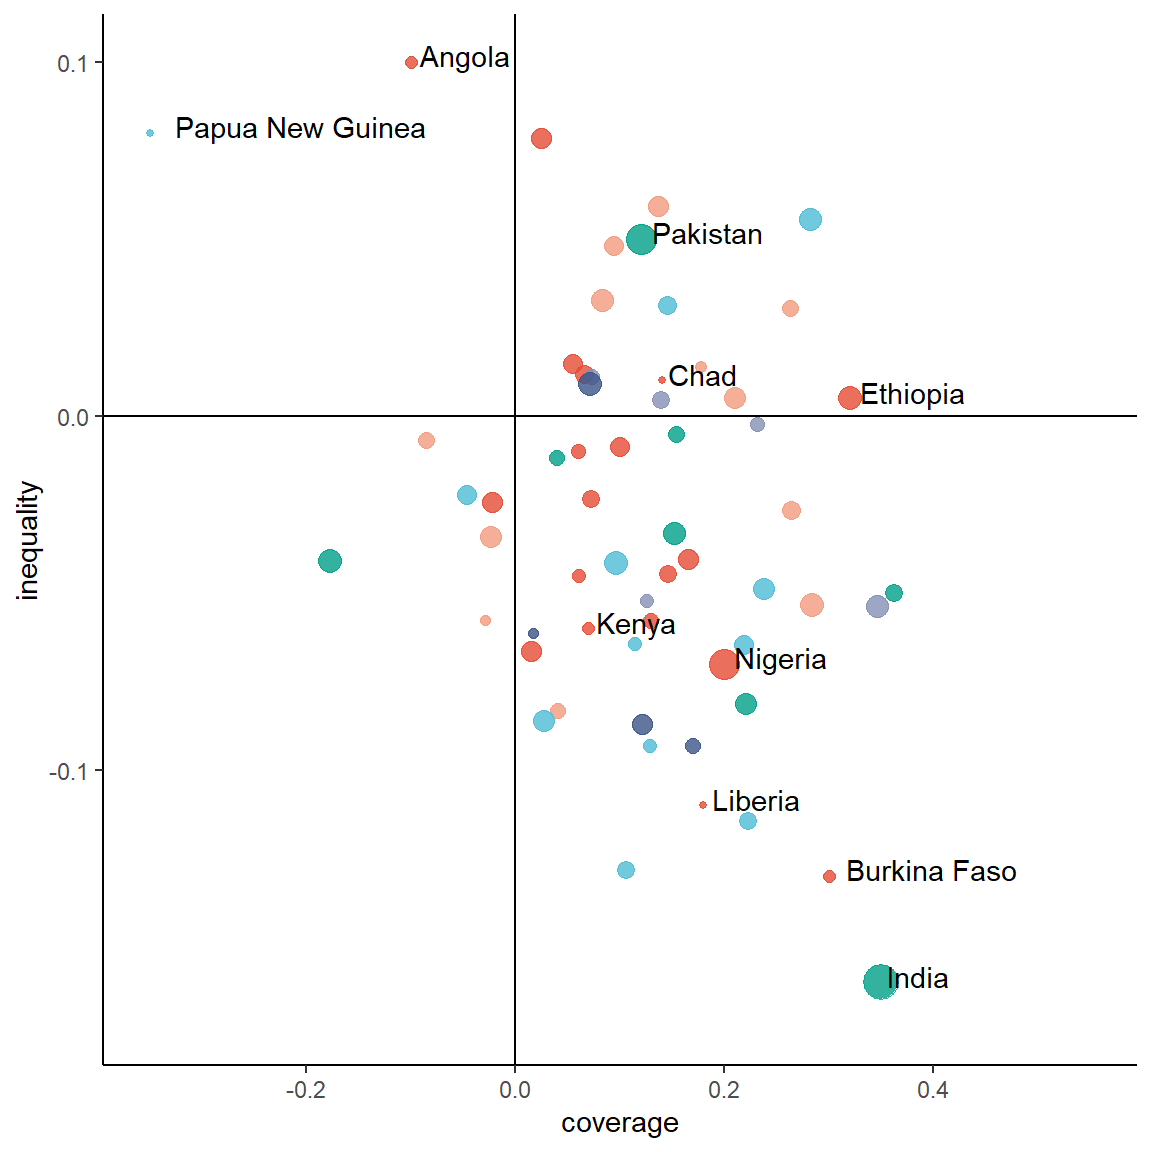
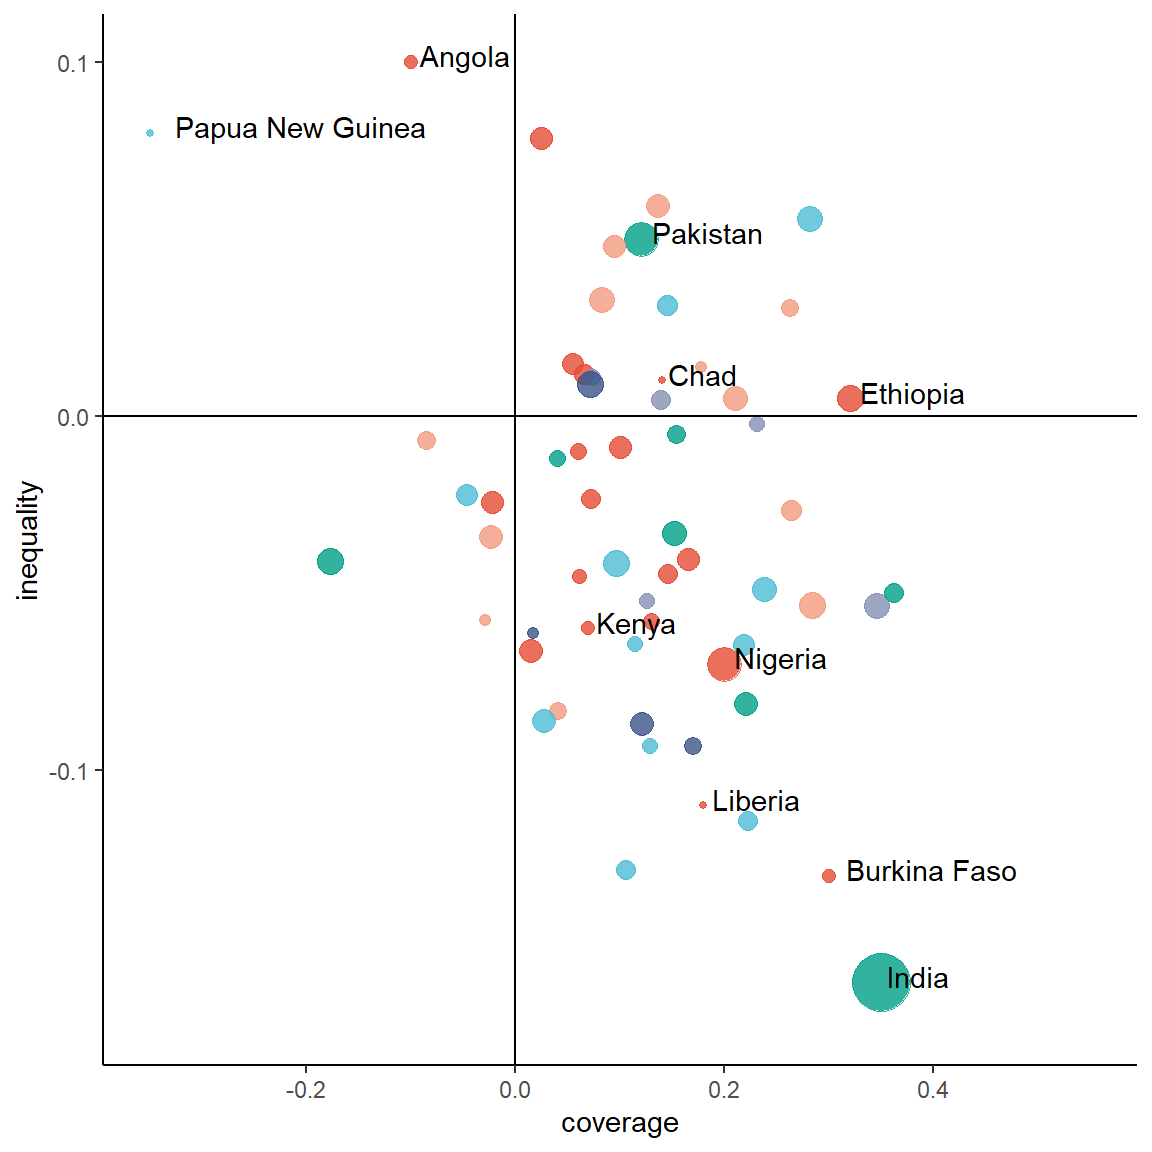
minor update

diff --git a/docs/viz-practice.html b/docs/viz-practice.html
@@ -313,7 +313,7 @@ gtag('config', 'G-RVRBE7Y1R2', { 'anonymize_ip': true});
 </div>
 <p>Các điểm trong biểu đồ gốc có màu sắc và kích thước to nhỏ khác nhau, vậy trong data frame cần có thêm 1 cột màu sắc và 1 cột kích thước.</p>
 <div class="cell">
-<div class="sourceCode cell-code" id="cb7"><pre class="sourceCode r code-with-copy"><code class="sourceCode r"><span id="cb7-1"><a href="#cb7-1" aria-hidden="true" tabindex="-1"></a>df_plot<span class="sc">$</span>size <span class="ot">&lt;-</span> <span class="fu">c</span>(<span class="fl">1.1</span>, <span class="dv">1</span>, <span class="dv">3</span>, <span class="dv">1</span>, <span class="dv">2</span>, <span class="fl">1.1</span>, <span class="dv">3</span>, <span class="dv">1</span>, <span class="fl">1.1</span>, <span class="dv">4</span>)</span>
+<div class="sourceCode cell-code" id="cb7"><pre class="sourceCode r code-with-copy"><code class="sourceCode r"><span id="cb7-1"><a href="#cb7-1" aria-hidden="true" tabindex="-1"></a>df_plot<span class="sc">$</span>size <span class="ot">&lt;-</span> <span class="fu">c</span>(<span class="fl">1.1</span>, <span class="dv">1</span>, <span class="dv">3</span>, <span class="dv">1</span>, <span class="dv">2</span>, <span class="fl">1.1</span>, <span class="dv">3</span>, <span class="dv">1</span>, <span class="fl">1.1</span>, <span class="dv">8</span>)</span>
 <span id="cb7-2"><a href="#cb7-2" aria-hidden="true" tabindex="-1"></a>df_plot<span class="sc">$</span>color <span class="ot">&lt;-</span> <span class="fu">c</span>(<span class="dv">1</span>, <span class="dv">2</span>, <span class="dv">3</span>, <span class="dv">1</span>, <span class="dv">1</span>, <span class="dv">1</span>, <span class="dv">1</span>, <span class="dv">1</span>, <span class="dv">1</span>, <span class="dv">3</span>)</span>
 <span id="cb7-3"><a href="#cb7-3" aria-hidden="true" tabindex="-1"></a>df_plot</span></code><button title="Copy to Clipboard" class="code-copy-button"><i class="bi"></i></button></pre></div>
 <div class="cell-output cell-output-stdout">
@@ -327,7 +327,7 @@ gtag('config', 'G-RVRBE7Y1R2', { 'anonymize_ip': true});
 7           Nigeria     -0.070     0.20  3.0     1
 8           Liberia     -0.110     0.18  1.0     1
 9      Burkina Faso     -0.130     0.30  1.1     1
-10            India     -0.160     0.35  4.0     3</code></pre>
+10            India     -0.160     0.35  8.0     3</code></pre>
 </div>
 </div>
 <p>Bây giờ chúng ta có thể thêm màu sắc và kích thước vào <code>geom_point()</code>.</p>
@@ -386,7 +386,7 @@ gtag('config', 'G-RVRBE7Y1R2', { 'anonymize_ip': true});
 </section>
 <section id="kết-quả" class="level3" data-number="6.1.2">
 <h3 data-number="6.1.2" class="anchored" data-anchor-id="kết-quả"><span class="header-section-number">6.1.2</span> Kết quả</h3>
-<p>Biểu đồ được tạo ra đã tương đối giống biểu đồ gốc. Chúng ta có thể thêm các đường thẳng x = 0, y = 0, chọn bảng màu, chọn lại theme cho biểu đồ để nhìn giống biểu đồ gốc hơn.</p>
+<p>Biểu đồ được tạo ra đã tương đối giống biểu đồ gốc. Chúng ta có thể thêm các đường thẳng x = 0, y = 0, chọn bảng màu, chỉnh lại kích thước các điểm, chọn lại theme cho biểu đồ để nhìn giống biểu đồ gốc hơn.</p>
 <div class="cell">
 <div class="sourceCode cell-code" id="cb13"><pre class="sourceCode r code-with-copy"><code class="sourceCode r"><span id="cb13-1"><a href="#cb13-1" aria-hidden="true" tabindex="-1"></a><span class="fu">ggplot</span>(df_plot, <span class="fu">aes</span>(<span class="at">x =</span> coverage, <span class="at">y =</span> inequality)) <span class="sc">+</span></span>
 <span id="cb13-2"><a href="#cb13-2" aria-hidden="true" tabindex="-1"></a>  <span class="fu">geom_point</span>(<span class="fu">aes</span>(<span class="at">size =</span> size, <span class="at">color =</span> color), <span class="at">alpha =</span> <span class="fl">0.8</span>) <span class="sc">+</span></span>
@@ -396,8 +396,9 @@ gtag('config', 'G-RVRBE7Y1R2', { 'anonymize_ip': true});
 <span id="cb13-6"><a href="#cb13-6" aria-hidden="true" tabindex="-1"></a>  <span class="fu">geom_vline</span>(<span class="at">xintercept =</span> <span class="dv">0</span>) <span class="sc">+</span></span>
 <span id="cb13-7"><a href="#cb13-7" aria-hidden="true" tabindex="-1"></a>  <span class="fu">geom_hline</span>(<span class="at">yintercept =</span> <span class="dv">0</span>) <span class="sc">+</span></span>
 <span id="cb13-8"><a href="#cb13-8" aria-hidden="true" tabindex="-1"></a>  <span class="fu">scale_color_npg</span>() <span class="sc">+</span></span>
-<span id="cb13-9"><a href="#cb13-9" aria-hidden="true" tabindex="-1"></a>  <span class="fu">theme_classic</span>() <span class="sc">+</span></span>
-<span id="cb13-10"><a href="#cb13-10" aria-hidden="true" tabindex="-1"></a>  <span class="fu">theme</span>(<span class="at">legend.position =</span> <span class="st">"none"</span>)</span></code><button title="Copy to Clipboard" class="code-copy-button"><i class="bi"></i></button></pre></div>
+<span id="cb13-9"><a href="#cb13-9" aria-hidden="true" tabindex="-1"></a>  <span class="fu">scale_size_continuous</span>(<span class="at">range =</span> <span class="fu">c</span>(<span class="dv">1</span>, <span class="dv">10</span>)) <span class="sc">+</span></span>
+<span id="cb13-10"><a href="#cb13-10" aria-hidden="true" tabindex="-1"></a>  <span class="fu">theme_classic</span>() <span class="sc">+</span></span>
+<span id="cb13-11"><a href="#cb13-11" aria-hidden="true" tabindex="-1"></a>  <span class="fu">theme</span>(<span class="at">legend.position =</span> <span class="st">"none"</span>)</span></code><button title="Copy to Clipboard" class="code-copy-button"><i class="bi"></i></button></pre></div>
 <div class="cell-output-display">
 <p><img src="viz-practice_files/figure-html/unnamed-chunk-10-1.png" class="img-fluid" width="576"></p>
 </div>
